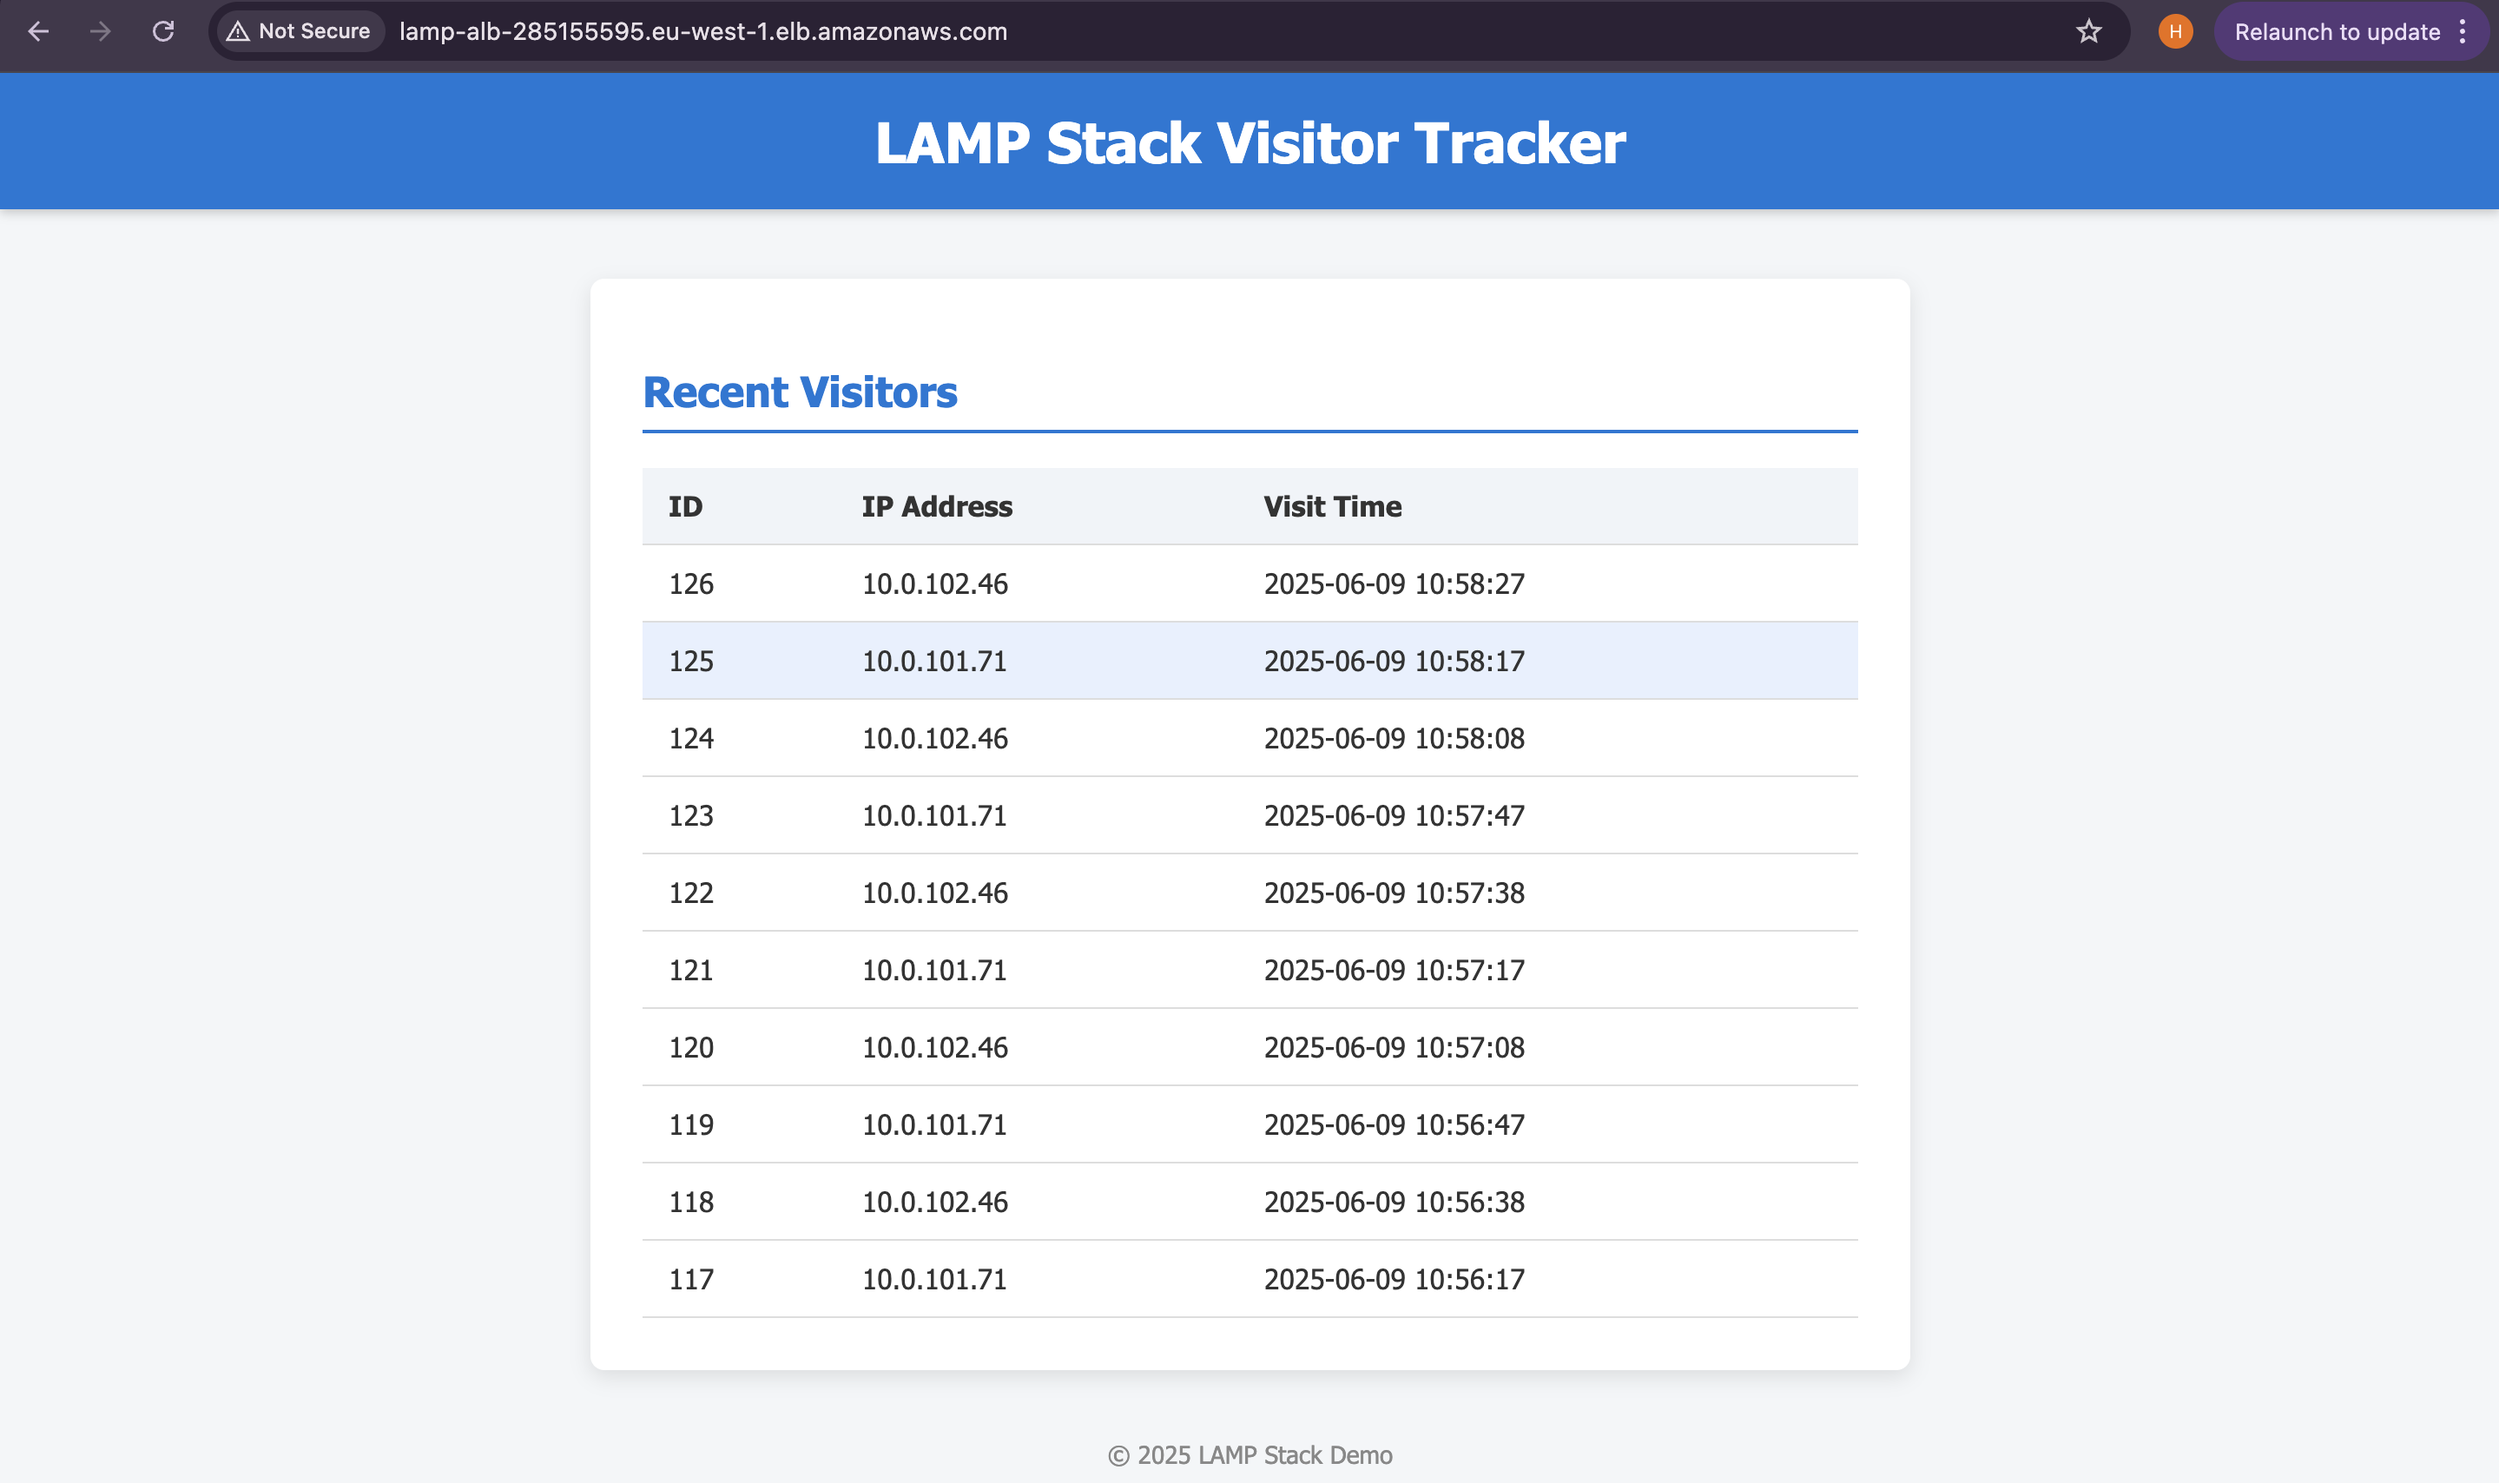
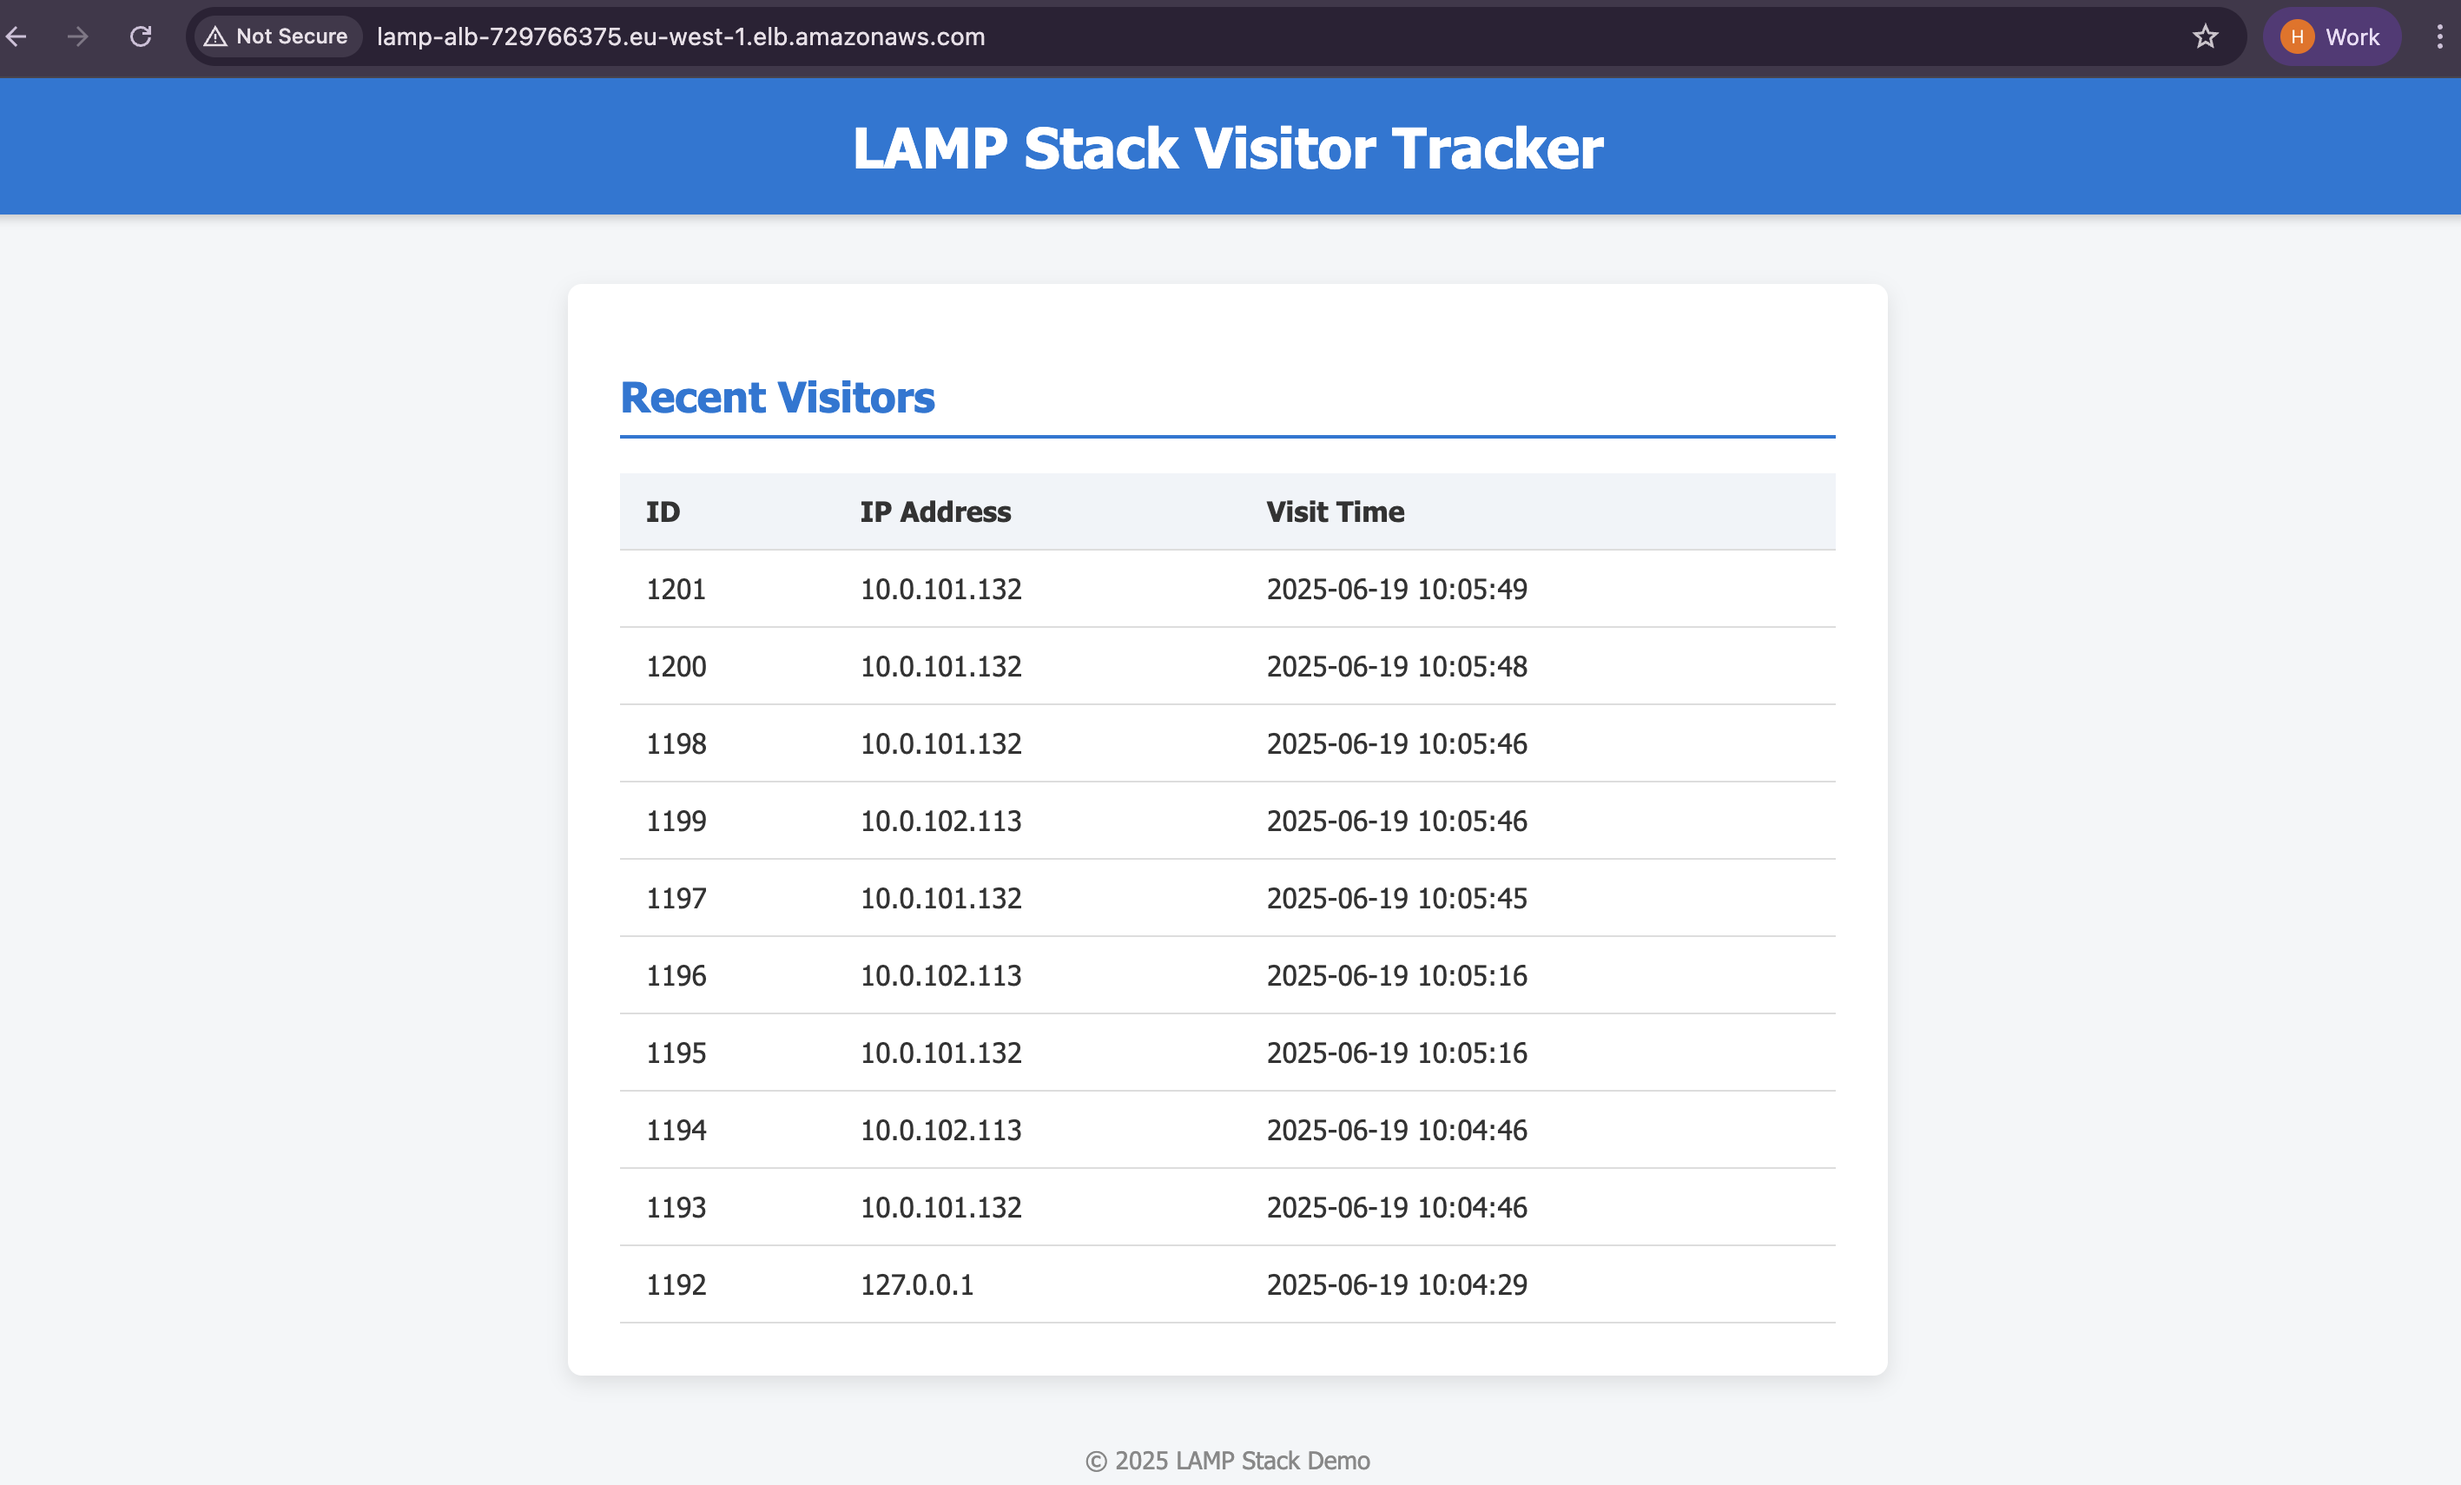
Added screenshots of lamp stack app

diff --git a/README.md b/README.md
@@ -18,7 +18,7 @@ This project is a simple yet powerful **LAMP stack (Linux, Apache, MySQL, PHP)**
 
 ## Live App
 
-**http://lamp-alb-285155595.eu-west-1.elb.amazonaws.com/**
+**http://lamp-alb-729766375.eu-west-1.elb.amazonaws.com/**
 
 ---
 
@@ -276,6 +276,9 @@ CloudWatch log groups created:
 
 Each EC2 instance logs under its own log stream (`{instance_id}`).
 
+![LAMP Stack App CloudWatch log](screenshot/lamp-stack-app-cloudwatch-log-group.png)
+
+
 ---
 
 ### Metrics Collected
@@ -298,6 +301,8 @@ Example alarm setup:
 - **Threshold:** > 75% for 2 consecutive periods
 - **Actions:** (optional) SNS notification
 
+![LAMP Stack App CloudWatch Alarms](screenshot/lamp-stack-app-cloudwatch-overview.png)
+
 ---
 
 ### CloudWatch Dashboard
@@ -313,6 +318,8 @@ Access via:
 CloudWatch > Dashboards > ${project_name}-dashboard
 
 ```
+
+![LAMP Stack App Dashboard](screenshot/lamp-stack-app-cloudwatch-dashboard.png)
 
 
 ---
